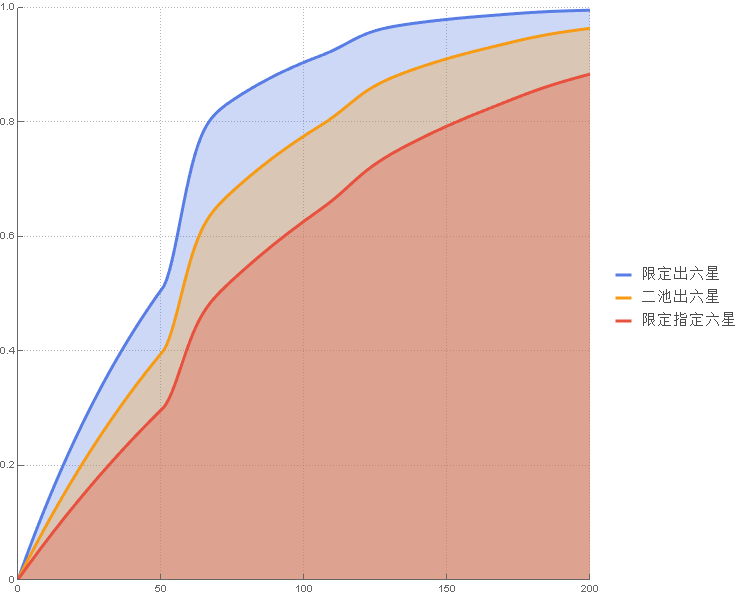
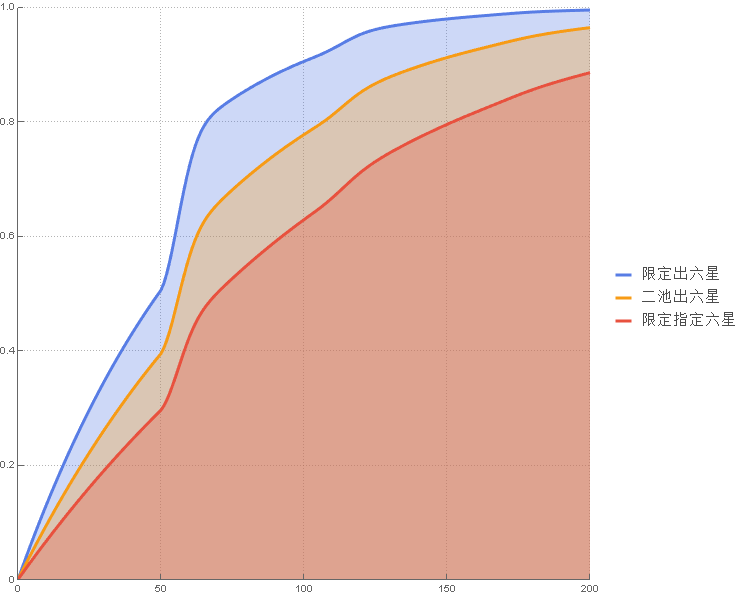
📑 update the data and images

diff --git a/doc/limited pool.m b/doc/limited pool.m
@@ -3,7 +3,7 @@
 SetDirectory@NotebookDirectory[];
 
 
-url = "https://github.com/GalAster/ArkKnightsCapsule/releases/download/v1.2.0/Distribution.mx";
+url = "https://github.com/GalAster/ArkKnightsCapsule/releases/download/v1.4.0/Distribution.mx";
 Dataset[data = N /@ Import[url]]
 
 
@@ -38,20 +38,20 @@ grand[names_, r_] := DiscretePlot[
 
 pdf = plot[{"\:9650\:5b9a\:51fa\:516d\:661f", "\:4e8c\:6c60\:51fa\:516d\:661f", "\:9650\:5b9a\:6307\:5b9a\:516d\:661f"}, 100]
 cdf = grand[{"\:9650\:5b9a\:51fa\:516d\:661f", "\:4e8c\:6c60\:51fa\:516d\:661f", "\:9650\:5b9a\:6307\:5b9a\:516d\:661f"}, 200]
-Export["limited pool/single_six_pdf.png", pdf, Background -> None];
-Export["limited pool/single_six_cdf.png", cdf, Background -> None];
+Export["limited_pool/single_six_pdf.png", pdf, Background -> None];
+Export["limited_pool/single_six_cdf.png", cdf, Background -> None];
 
 
 pdf = plot[{"\:4e8c\:6c60\:53cc\:516d\:661f", "\:9650\:5b9a\:53cc\:516d\:661f"}, 300]
 cdf = grand[{"\:4e8c\:6c60\:53cc\:516d\:661f", "\:9650\:5b9a\:53cc\:516d\:661f"}, 400]
-Export["limited pool/double_six_pdf.png", pdf, Background -> None];
-Export["limited pool/double_six_cdf.png", cdf, Background -> None];
+Export["limited_pool/double_six_pdf.png", pdf, Background -> None];
+Export["limited_pool/double_six_cdf.png", cdf, Background -> None];
 
 
 pdf = plot[{"\:4e8c\:6c60\:53cc\:6ee1\:6f5c", "\:9650\:5b9a\:53cc\:6ee1\:6f5c"}, 1200]
 cdf = grand[{"\:4e8c\:6c60\:53cc\:6ee1\:6f5c", "\:9650\:5b9a\:53cc\:6ee1\:6f5c"}, 1600]
-Export["limited pool/finish_six_pdf.png", pdf, Background -> None];
-Export["limited pool/finish_six_cdf.png", cdf, Background -> None];
+Export["limited_pool/finish_six_pdf.png", pdf, Background -> None];
+Export["limited_pool/finish_six_cdf.png", cdf, Background -> None];
 
 
 (* ::Section:: *)
@@ -63,27 +63,27 @@ lucky[key_] := {
 	formatNumber[Mean@data[key], 2],
 	Round@Quantile[data[key], 1 / 2],
 	formatNumber[StandardDeviation@data[key], 2],
-	Round@Quantile[data[key], 1 / 10],
-	Round@Quantile[data[key], 1 / 4],
-	Round@Quantile[data[key], 3 / 4],
-	Round@Quantile[data[key], 9 / 10],
+	Round@Quantile[data[key], 5 / 100],
+	Round@Quantile[data[key], 25 / 100],
+	Round@Quantile[data[key], 75 / 100],
+	Round@Quantile[data[key], 90 / 100],
 	Round@Quantile[data[key], 99 / 100]
 }
 
 
 StringJoin[{
-	"|\:4e8b\:4ef6|\:671f\:671b|\:4e2d\:4f4d\:6570|\:6807\:51c6\:5dee|\:6b27\:7687|\:6b27\:6d32\:4eba|\:975e\:6d32\:4eba|\:975e\:914b|\:88ab\:8bc5\:5492\:8005|\n",
+	"|\:4e8b\:4ef6|\:671f\:671b|\:4e2d\:4f4d\:6570|\:6807\:51c6\:5dee|\:6b27\:7687|\:6b27\:6d32\:4eba|\:975e\:6d32\:4eba|\:975e\:914b|\:88ab\:9057\:5fd8\:8005|\n",
 	"|:-|-:|-:|-:|-:|-:|-:|-:|-:|\n",
 	StringRiffle[lucky /@ Keys@data, "\n", "|"]
 }]
 
 
-v = Join[Range[1, 20], 10 * Range[3, 9], 100 * Range[1, 22]];
-try[key_] := Table[formatNumber[100Probability[x < i, x\[Distributed]data[key]]] <> "%", {i, v}]
+v = Join[Range[1, 20], 10 * Range[3, 9], 100 * Range[1, 20]];
+try[key_] := Table[formatNumber[100Probability[x < i, x\[Distributed]data[key]], 2] <> "%", {i, v}]
 
 
 StringJoin[{
-	StringRiffle[Prepend[Keys@data, "\:62bd\:5361\:6b21\:6570"], "|"] <> "\n",
+	StringRiffle[Prepend[Keys@data, "\:6b21\:6570"], "|"] <> "\n",
 	"|-:|-:|-:|-:|-:|-:|-:|-:|\n",
 	StringRiffle[Transpose@Prepend[try /@ Keys@data, v], "\n", "|"]
 }]
@@ -94,7 +94,7 @@ try[key_] := Table[formatNumber[100Probability[x < i, x\[Distributed]data[key]]]
 
 
 StringJoin[{
-	StringRiffle[Prepend[Keys@data, "\:62bd\:5361\:6b21\:6570"], "|"] <> "\n",
+	StringRiffle[Prepend[Keys@data, "\:6b21\:6570"], "|"] <> "\n",
 	"|-:|-:|-:|-:|-:|-:|-:|-:|\n",
 	StringRiffle[Transpose@Prepend[try /@ Keys@data, v], "\n", "|"]
 }]

diff --git a/doc/limited pool.md b/doc/limited pool.md
@@ -1,12 +1,12 @@
 | 事件         |   期望 | 中位数 | 标准差 | 欧皇 | 欧洲人 | 非洲人 | 非酋 | 被诅咒者 |
 | :----------- | -----: | -----: | -----: | ---: | -----: | -----: | ---: | -------: |
-| 二池出六星   |  69.81 |     58 |  57.82 |    6 |     29 |     93 |  144 |      273 |
-| 二池双六星   | 139.61 |    123 |  81.76 |   36 |     81 |    181 |  248 |      402 |
-| 二池双满潜   | 837.66 |    820 | 200.24 |  540 |    695 |    961 | 1102 |     1379 |
-| 限定出六星   |  49.86 |     50 |  37.32 |    4 |     21 |     63 |   99 |      176 |
-| 限定指定六星 |  99.71 |     71 |  88.07 |    8 |     41 |    133 |  214 |      414 |
-| 限定双六星   | 149.59 |    127 |  95.65 |   37 |     83 |    192 |  274 |      475 |
-| 限定双满潜   | 733.30 |    708 | 197.04 |  459 |    594 |    845 |  993 |     1311 |
+| 二池出六星   |  69.19 |     57 |  57.19 |    6 |     29 |     92 |  142 |      271 |
+| 二池双六星   | 138.38 |    122 |  80.88 |   36 |     80 |    179 |  245 |      398 |
+| 二池双满潜   | 829.85 |    813 | 197.12 |  536 |    690 |    952 | 1091 |     1358 |
+| 限定出六星   |  49.42 |     50 |  36.85 |    4 |     21 |     62 |   98 |      174 |
+| 限定指定六星 |  98.82 |     70 |  87.18 |    8 |     41 |    132 |  212 |      410 |
+| 限定双六星   | 148.27 |    126 |  94.67 |   37 |     82 |    190 |  271 |      470 |
+| 限定双满潜   | 726.62 |    702 | 194.33 |  456 |    589 |    837 |  984 |     1293 |
 
 - 欧皇: 超越了 95% 的玩家
 - 欧洲人: 超越了 75% 的玩家
@@ -20,80 +20,80 @@
 |  次数 | 二池出六星 | 二池双六星 | 二池双满潜 | 限定出六星 | 限定指定六星 | 限定双六星 | 限定双满潜 |
 | ----: | ---------: | ---------: | ---------: | ---------: | -----------: | ---------: | ---------: |
 |     1 |     0.000% |     0.000% |     0.000% |     0.000% |       0.000% |     0.000% |     0.000% |
-|     2 |     0.999% |     0.000% |     0.000% |     1.399% |       0.700% |     0.000% |     0.000% |
-|     3 |     1.988% |     0.010% |     0.000% |     2.778% |       1.394% |     0.010% |     0.000% |
-|     4 |     2.968% |     0.030% |     0.000% |     4.139% |       2.084% |     0.029% |     0.000% |
-|     5 |     3.938% |     0.059% |     0.000% |     5.480% |       2.770% |     0.058% |     0.000% |
-|     6 |     4.899% |     0.098% |     0.000% |     6.804% |       3.450% |     0.096% |     0.000% |
-|     7 |     5.848% |     0.146% |     0.000% |     8.108% |       4.125% |     0.143% |     0.000% |
-|     8 |     6.789% |     0.203% |     0.000% |     9.393% |       4.796% |     0.199% |     0.000% |
-|     9 |     7.720% |     0.269% |     0.000% |    10.662% |       5.464% |     0.264% |     0.000% |
-|    10 |     8.643% |     0.344% |     0.000% |    11.912% |       6.126% |     0.336% |     0.000% |
-|    11 |     9.556% |     0.427% |     0.000% |    13.145% |       6.784% |     0.417% |     0.000% |
-|    12 |    10.458% |     0.518% |     0.000% |    14.362% |       7.438% |     0.506% |     0.000% |
-|    13 |    11.355% |     0.617% |     0.000% |    15.562% |       8.085% |     0.603% |     0.000% |
-|    14 |    12.243% |     0.725% |     0.000% |    16.745% |       8.729% |     0.708% |     0.000% |
-|    15 |    13.119% |     0.840% |     0.000% |    17.909% |       9.368% |     0.819% |     0.000% |
-|    16 |    13.989% |     0.963% |     0.000% |    19.058% |      10.003% |     0.939% |     0.000% |
-|    17 |    14.850% |     1.094% |     0.000% |    20.191% |      10.633% |     1.066% |     0.000% |
-|    18 |    15.701% |     1.232% |     0.000% |    21.308% |      11.259% |     1.200% |     0.000% |
-|    19 |    16.544% |     1.376% |     0.000% |    22.409% |      11.880% |     1.341% |     0.000% |
-|    20 |    17.378% |     1.528% |     0.000% |    23.495% |      12.497% |     1.488% |     0.000% |
-|    21 |    18.203% |     1.687% |     0.000% |    24.567% |      13.110% |     1.642% |     0.000% |
-|    22 |    19.020% |     1.852% |     0.000% |    25.622% |      13.717% |     1.803% |     0.000% |
-|    23 |    19.829% |     2.024% |     0.000% |    26.662% |      14.321% |     1.970% |     0.000% |
-|    24 |    20.631% |     2.202% |     0.000% |    27.688% |      14.922% |     2.142% |     0.000% |
-|    25 |    21.426% |     2.386% |     0.000% |    28.701% |      15.516% |     2.322% |     0.000% |
-|    26 |    22.212% |     2.576% |     0.000% |    29.699% |      16.107% |     2.506% |     0.000% |
-|    27 |    22.992% |     2.772% |     0.000% |    30.683% |      16.695% |     2.697% |     0.000% |
-|    28 |    23.761% |     2.974% |     0.000% |    31.655% |      17.278% |     2.892% |     0.000% |
-|    29 |    24.523% |     3.182% |     0.000% |    32.613% |      17.857% |     3.094% |     0.000% |
-|    30 |    25.279% |     3.394% |     0.000% |    33.557% |      18.431% |     3.301% |     0.000% |
-|    31 |    26.026% |     3.613% |     0.000% |    34.488% |      19.001% |     3.513% |     0.000% |
-|    32 |    26.766% |     3.838% |     0.000% |    35.404% |      19.567% |     3.729% |     0.000% |
-|    33 |    27.498% |     4.067% |     0.000% |    36.309% |      20.130% |     3.950% |     0.000% |
-|    34 |    28.223% |     4.301% |     0.000% |    37.202% |      20.690% |     4.177% |     0.000% |
-|    35 |    28.941% |     4.539% |     0.000% |    38.081% |      21.247% |     4.409% |     0.000% |
-|    36 |    29.653% |     4.783% |     0.000% |    38.948% |      21.799% |     4.644% |     0.000% |
-|    37 |    30.356% |     5.033% |     0.000% |    39.801% |      22.347% |     4.883% |     0.000% |
-|    38 |    31.052% |     5.286% |     0.000% |    40.645% |      22.891% |     5.128% |     0.000% |
-|    39 |    31.741% |     5.544% |     0.000% |    41.477% |      23.431% |     5.376% |     0.000% |
-|    40 |    32.425% |     5.806% |     0.000% |    42.296% |      23.967% |     5.629% |     0.000% |
-|    41 |    33.100% |     6.073% |     0.000% |    43.103% |      24.498% |     5.886% |     0.000% |
-|    42 |    33.769% |     6.343% |     0.000% |    43.897% |      25.026% |     6.146% |     0.000% |
-|    43 |    34.430% |     6.618% |     0.000% |    44.683% |      25.552% |     6.411% |     0.000% |
-|    44 |    35.085% |     6.896% |     0.000% |    45.458% |      26.073% |     6.677% |     0.000% |
-|    45 |    35.733% |     7.177% |     0.000% |    46.221% |      26.590% |     6.948% |     0.000% |
-|    46 |    36.376% |     7.462% |     0.000% |    46.974% |      27.105% |     7.223% |     0.000% |
-|    47 |    37.013% |     7.751% |     0.000% |    47.716% |      27.616% |     7.502% |     0.000% |
-|    48 |    37.643% |     8.043% |     0.000% |    48.449% |      28.122% |     7.783% |     0.000% |
-|    49 |    38.265% |     8.340% |     0.000% |    49.171% |      28.624% |     8.068% |     0.000% |
-|    50 |    38.883% |     8.639% |     0.000% |    49.883% |      29.123% |     8.355% |     0.000% |
-|    60 |    53.427% |    12.274% |     0.000% |    68.385% |      40.125% |    11.851% |     0.000% |
-|    70 |    64.827% |    18.025% |     0.000% |    81.395% |      49.398% |    17.386% |     0.000% |
-|    80 |    69.630% |    24.143% |     0.000% |    85.077% |      54.169% |    23.249% |     0.000% |
-|    90 |    73.665% |    30.077% |     0.000% |    87.883% |      58.402% |    28.904% |     0.000% |
-|   100 |    77.204% |    35.782% |     0.000% |    90.209% |      62.268% |    34.308% |     0.000% |
-|   200 |    96.289% |    80.570% |     0.000% |    99.515% |      88.219% |    76.919% |     0.001% |
-|   300 |    99.373% |    95.254% |     0.015% |    99.973% |      96.258% |    92.541% |     0.097% |
-|   400 |    99.895% |    98.956% |     0.341% |    99.999% |      98.815% |    97.630% |     1.603% |
-|   500 |    99.982% |    99.783% |     2.664% |   100.000% |      99.624% |    99.249% |     9.164% |
-|   600 |    99.997% |    99.957% |    10.483% |   100.000% |      99.881% |    99.762% |    26.193% |
-|   700 |    99.999% |    99.992% |    25.748% |   100.000% |      99.962% |    99.925% |    48.190% |
-|   800 |   100.000% |    99.998% |    45.719% |   100.000% |      99.988% |    99.976% |    67.881% |
-|   900 |   100.000% |   100.000% |    65.116% |   100.000% |      99.996% |    99.993% |    81.833% |
-|  1000 |   100.000% |   100.000% |    80.098% |   100.000% |      99.999% |    99.998% |    90.395% |
-|  1100 |   100.000% |   100.000% |    89.791% |   100.000% |     100.000% |    99.999% |    95.168% |
-|  1200 |   100.000% |   100.000% |    95.229% |   100.000% |     100.000% |   100.000% |    97.661% |
-|  1300 |   100.000% |   100.000% |    97.942% |   100.000% |     100.000% |   100.000% |    98.903% |
-|  1400 |   100.000% |   100.000% |    99.173% |   100.000% |     100.000% |   100.000% |    99.500% |
-|  1500 |   100.000% |   100.000% |    99.687% |   100.000% |     100.000% |   100.000% |    99.778% |
-|  1600 |   100.000% |   100.000% |    99.888% |   100.000% |     100.000% |   100.000% |    99.903% |
-|  1700 |   100.000% |   100.000% |    99.962% |   100.000% |     100.000% |   100.000% |    99.959% |
-|  1800 |   100.000% |   100.000% |    99.988% |   100.000% |     100.000% |   100.000% |    99.983% |
-|  1900 |   100.000% |   100.000% |    99.996% |   100.000% |     100.000% |   100.000% |    99.993% |
-|  2000 |   100.000% |   100.000% |    99.999% |   100.000% |     100.000% |   100.000% |    99.997% |
-|  2100 |   100.000% |   100.000% |   100.000% |   100.000% |     100.000% |   100.000% |    99.999% |
+|     2 |     1.001% |     0.000% |     0.000% |     1.401% |       0.701% |     0.000% |     0.000% |
+|     3 |     1.992% |     0.010% |     0.000% |     2.781% |       1.396% |     0.010% |     0.000% |
+|     4 |     2.972% |     0.030% |     0.000% |     4.142% |       2.087% |     0.029% |     0.000% |
+|     5 |     3.943% |     0.059% |     0.000% |     5.484% |       2.773% |     0.058% |     0.000% |
+|     6 |     4.904% |     0.098% |     0.000% |     6.806% |       3.453% |     0.097% |     0.000% |
+|     7 |     5.854% |     0.146% |     0.000% |     8.112% |       4.129% |     0.143% |     0.000% |
+|     8 |     6.795% |     0.204% |     0.000% |     9.399% |       4.800% |     0.199% |     0.000% |
+|     9 |     7.726% |     0.269% |     0.000% |    10.667% |       5.465% |     0.264% |     0.000% |
+|    10 |     8.651% |     0.344% |     0.000% |    11.918% |       6.128% |     0.336% |     0.000% |
+|    11 |     9.565% |     0.427% |     0.000% |    13.152% |       6.785% |     0.417% |     0.000% |
+|    12 |    10.469% |     0.519% |     0.000% |    14.369% |       7.437% |     0.506% |     0.000% |
+|    13 |    11.364% |     0.618% |     0.000% |    15.567% |       8.086% |     0.603% |     0.000% |
+|    14 |    12.251% |     0.726% |     0.000% |    16.748% |       8.728% |     0.707% |     0.000% |
+|    15 |    13.127% |     0.841% |     0.000% |    17.914% |       9.365% |     0.820% |     0.000% |
+|    16 |    13.994% |     0.964% |     0.000% |    19.063% |      10.001% |     0.939% |     0.000% |
+|    17 |    14.856% |     1.095% |     0.000% |    20.198% |      10.631% |     1.065% |     0.000% |
+|    18 |    15.707% |     1.232% |     0.000% |    21.315% |      11.257% |     1.199% |     0.000% |
+|    19 |    16.549% |     1.376% |     0.000% |    22.417% |      11.878% |     1.339% |     0.000% |
+|    20 |    17.386% |     1.528% |     0.000% |    23.505% |      12.494% |     1.487% |     0.000% |
+|    21 |    18.211% |     1.687% |     0.000% |    24.576% |      13.106% |     1.641% |     0.000% |
+|    22 |    19.028% |     1.852% |     0.000% |    25.632% |      13.714% |     1.801% |     0.000% |
+|    23 |    19.837% |     2.024% |     0.000% |    26.672% |      14.318% |     1.969% |     0.000% |
+|    24 |    20.638% |     2.202% |     0.000% |    27.698% |      14.917% |     2.142% |     0.000% |
+|    25 |    21.433% |     2.387% |     0.000% |    28.711% |      15.513% |     2.320% |     0.000% |
+|    26 |    22.219% |     2.577% |     0.000% |    29.708% |      16.104% |     2.504% |     0.000% |
+|    27 |    22.997% |     2.774% |     0.000% |    30.693% |      16.691% |     2.695% |     0.000% |
+|    28 |    23.768% |     2.976% |     0.000% |    31.664% |      17.274% |     2.891% |     0.000% |
+|    29 |    24.530% |     3.185% |     0.000% |    32.622% |      17.854% |     3.092% |     0.000% |
+|    30 |    25.285% |     3.398% |     0.000% |    33.565% |      18.429% |     3.299% |     0.000% |
+|    31 |    26.034% |     3.617% |     0.000% |    34.495% |      19.002% |     3.511% |     0.000% |
+|    32 |    26.776% |     3.841% |     0.000% |    35.412% |      19.569% |     3.728% |     0.000% |
+|    33 |    27.509% |     4.070% |     0.000% |    36.316% |      20.131% |     3.950% |     0.000% |
+|    34 |    28.232% |     4.304% |     0.000% |    37.205% |      20.689% |     4.176% |     0.000% |
+|    35 |    28.949% |     4.543% |     0.000% |    38.082% |      21.244% |     4.407% |     0.000% |
+|    36 |    29.660% |     4.788% |     0.000% |    38.950% |      21.795% |     4.643% |     0.000% |
+|    37 |    30.363% |     5.037% |     0.000% |    39.806% |      22.343% |     4.882% |     0.000% |
+|    38 |    31.060% |     5.290% |     0.000% |    40.649% |      22.886% |     5.126% |     0.000% |
+|    39 |    31.749% |     5.548% |     0.000% |    41.481% |      23.425% |     5.375% |     0.000% |
+|    40 |    32.432% |     5.810% |     0.000% |    42.301% |      23.961% |     5.628% |     0.000% |
+|    41 |    33.108% |     6.076% |     0.000% |    43.109% |      24.493% |     5.884% |     0.000% |
+|    42 |    33.777% |     6.347% |     0.000% |    43.906% |      25.023% |     6.145% |     0.000% |
+|    43 |    34.440% |     6.621% |     0.000% |    44.692% |      25.549% |     6.409% |     0.000% |
+|    44 |    35.095% |     6.899% |     0.000% |    45.466% |      26.070% |     6.678% |     0.000% |
+|    45 |    35.745% |     7.180% |     0.000% |    46.230% |      26.588% |     6.949% |     0.000% |
+|    46 |    36.387% |     7.467% |     0.000% |    46.983% |      27.100% |     7.225% |     0.000% |
+|    47 |    37.023% |     7.757% |     0.000% |    47.726% |      27.610% |     7.503% |     0.000% |
+|    48 |    37.652% |     8.050% |     0.000% |    48.458% |      28.116% |     7.783% |     0.000% |
+|    49 |    38.276% |     8.346% |     0.000% |    49.180% |      28.619% |     8.068% |     0.000% |
+|    50 |    38.895% |     8.646% |     0.000% |    49.892% |      29.119% |     8.357% |     0.000% |
+|    60 |    54.889% |    12.464% |     0.000% |    70.323% |      41.182% |    12.030% |     0.000% |
+|    70 |    65.205% |    18.359% |     0.000% |    81.746% |      49.739% |    17.707% |     0.000% |
+|    80 |    69.907% |    24.506% |     0.000% |    85.284% |      54.454% |    23.591% |     0.000% |
+|    90 |    73.926% |    30.464% |     0.000% |    88.068% |      58.676% |    29.263% |     0.000% |
+|   100 |    77.455% |    36.176% |     0.000% |    90.376% |      62.540% |    34.684% |     0.000% |
+|   200 |    96.413% |    81.034% |     0.000% |    99.543% |      88.469% |    77.378% |     0.001% |
+|   300 |    99.406% |    95.461% |     0.016% |    99.976% |      96.382% |    92.782% |     0.102% |
+|   400 |    99.902% |    99.020% |     0.363% |    99.999% |      98.866% |    97.731% |     1.699% |
+|   500 |    99.984% |    99.799% |     2.834% |   100.000% |      99.645% |    99.289% |     9.657% |
+|   600 |    99.997% |    99.961% |    11.054% |   100.000% |      99.889% |    99.777% |    27.267% |
+|   700 |   100.000% |    99.992% |    26.859% |   100.000% |      99.965% |    99.930% |    49.553% |
+|   800 |   100.000% |    99.999% |    47.172% |   100.000% |      99.989% |    99.978% |    69.107% |
+|   900 |   100.000% |   100.000% |    66.529% |   100.000% |      99.997% |    99.993% |    82.740% |
+|  1000 |   100.000% |   100.000% |    81.215% |   100.000% |      99.999% |    99.998% |    90.974% |
+|  1100 |   100.000% |   100.000% |    90.594% |   100.000% |     100.000% |    99.999% |    95.539% |
+|  1200 |   100.000% |   100.000% |    95.790% |   100.000% |     100.000% |   100.000% |    97.914% |
+|  1300 |   100.000% |   100.000% |    98.253% |   100.000% |     100.000% |   100.000% |    99.050% |
+|  1400 |   100.000% |   100.000% |    99.326% |   100.000% |     100.000% |   100.000% |    99.579% |
+|  1500 |   100.000% |   100.000% |    99.759% |   100.000% |     100.000% |   100.000% |    99.820% |
+|  1600 |   100.000% |   100.000% |    99.917% |   100.000% |     100.000% |   100.000% |    99.924% |
+|  1700 |   100.000% |   100.000% |    99.973% |   100.000% |     100.000% |   100.000% |    99.969% |
+|  1800 |   100.000% |   100.000% |    99.992% |   100.000% |     100.000% |   100.000% |    99.987% |
+|  1900 |   100.000% |   100.000% |    99.998% |   100.000% |     100.000% |   100.000% |    99.995% |
+|  2000 |   100.000% |   100.000% |    99.999% |   100.000% |     100.000% |   100.000% |    99.998% |
+|  2100 |   100.000% |   100.000% |   100.000% |   100.000% |     100.000% |   100.000% |   100.000% |
 |  2200 |   100.000% |   100.000% |   100.000% |   100.000% |     100.000% |   100.000% |   100.000% |
 |  2300 |   100.000% |   100.000% |   100.000% |   100.000% |     100.000% |   100.000% |   100.000% |
 |  2400 |   100.000% |   100.000% |   100.000% |   100.000% |     100.000% |   100.000% |   100.000% |
@@ -143,4 +143,3 @@
 ![](./limited_pool/finish_six_pdf.png)
 
 ![](./limited_pool/finish_six_cdf.png)
-

diff --git a/Readme.md b/Readme.md
@@ -4,72 +4,74 @@
 
 **注**: 六星指 up 的六星不是歪了的六星, 限定 = 地生五金限定池, 二池 = 两个普通 up 池
 
-| 事件         |   期望 | 中位数 | 标准差 | 欧皇 | 欧洲人 | 非洲人 | 非酋 | 被诅咒者 |
+| 事件         |   期望 | 中位数 | 标准差 | 欧皇 | 欧洲人 | 非洲人 | 非酋 | 被遗忘者 |
 | :----------- | -----: | -----: | -----: | ---: | -----: | -----: | ---: | -------: |
-| 二池出六星   |  69.81 |     58 |  57.82 |    6 |     29 |     93 |  144 |      273 |
-| 二池双六星   | 139.61 |    123 |  81.76 |   36 |     81 |    181 |  248 |      402 |
-| 二池双满潜   | 837.66 |    820 | 200.24 |  540 |    695 |    961 | 1102 |     1379 |
-| 限定出六星   |  49.86 |     50 |  37.32 |    4 |     21 |     63 |   99 |      176 |
-| 限定指定六星 |  99.71 |     71 |  88.07 |    8 |     41 |    133 |  214 |      414 |
-| 限定双六星   | 149.59 |    127 |  95.65 |   37 |     83 |    192 |  274 |      475 |
-| 限定双满潜   | 733.30 |    708 | 197.04 |  459 |    594 |    845 |  993 |     1311 |
+| 二池出六星   |  69.19 |     57 |  57.19 |    6 |     29 |     92 |  142 |      271 |
+| 二池双六星   | 138.38 |    122 |  80.88 |   36 |     80 |    179 |  245 |      398 |
+| 二池双满潜   | 829.85 |    813 | 197.12 |  536 |    690 |    952 | 1091 |     1358 |
+| 限定出六星   |  49.42 |     50 |  36.85 |    4 |     21 |     62 |   98 |      174 |
+| 限定指定六星 |  98.82 |     70 |  87.18 |    8 |     41 |    132 |  212 |      410 |
+| 限定双六星   | 148.27 |    126 |  94.67 |   37 |     82 |    190 |  271 |      470 |
+| 限定双满潜   | 726.62 |    702 | 194.33 |  456 |    589 |    837 |  984 |     1293 |
 
 - 欧皇: 超越了 95% 的玩家
 - 欧洲人: 超越了 75% 的玩家
 - 非洲人: 超越了 25% 的玩家
 - 非酋: 超越了 10% 的玩家
-- 被诅咒者: 超越了 1% 的玩家
+- 被遗忘者: 超越了 1% 的玩家
 
 ### 实际抽卡对照表
 
-**没有什么老婆是 1000 抽追不到的, 如果有, 再来 1000 抽**
+**注1:** 根据精算, 每抽对应的人民币价值约为 7.5 元
+
+**注2:** 没有什么老婆是 1000 抽追不到的, 如果有, 那就再来 1000 抽
 
 | 次数 | 二池出六星 | 二池双六星 | 二池双满潜 | 限定出六星 | 限定指定六星 | 限定双六星 | 限定双满潜 |
 | ---: | ---------: | ---------: | ---------: | ---------: | -----------: | ---------: | ---------: |
 |    1 |      0.00% |      0.00% |      0.00% |      0.00% |        0.00% |      0.00% |      0.00% |
 |    2 |      1.00% |      0.00% |      0.00% |      1.40% |        0.70% |      0.00% |      0.00% |
-|    3 |      1.99% |      0.01% |      0.00% |      2.78% |        1.39% |      0.01% |      0.00% |
-|    4 |      2.97% |      0.03% |      0.00% |      4.14% |        2.08% |      0.03% |      0.00% |
+|    3 |      1.99% |      0.01% |      0.00% |      2.78% |        1.40% |      0.01% |      0.00% |
+|    4 |      2.97% |      0.03% |      0.00% |      4.14% |        2.09% |      0.03% |      0.00% |
 |    5 |      3.94% |      0.06% |      0.00% |      5.48% |        2.77% |      0.06% |      0.00% |
-|    6 |      4.90% |      0.10% |      0.00% |      6.80% |        3.45% |      0.10% |      0.00% |
+|    6 |      4.90% |      0.10% |      0.00% |      6.81% |        3.45% |      0.10% |      0.00% |
 |    7 |      5.85% |      0.15% |      0.00% |      8.11% |        4.13% |      0.14% |      0.00% |
-|    8 |      6.79% |      0.20% |      0.00% |      9.39% |        4.80% |      0.20% |      0.00% |
-|    9 |      7.72% |      0.27% |      0.00% |     10.66% |        5.46% |      0.26% |      0.00% |
-|   10 |      8.64% |      0.34% |      0.00% |     11.91% |        6.13% |      0.34% |      0.00% |
-|   11 |      9.56% |      0.43% |      0.00% |     13.14% |        6.78% |      0.42% |      0.00% |
-|   12 |     10.46% |      0.52% |      0.00% |     14.36% |        7.44% |      0.51% |      0.00% |
-|   13 |     11.36% |      0.62% |      0.00% |     15.56% |        8.09% |      0.60% |      0.00% |
-|   14 |     12.24% |      0.73% |      0.00% |     16.74% |        8.73% |      0.71% |      0.00% |
-|   15 |     13.12% |      0.84% |      0.00% |     17.91% |        9.37% |      0.82% |      0.00% |
+|    8 |      6.80% |      0.20% |      0.00% |      9.40% |        4.80% |      0.20% |      0.00% |
+|    9 |      7.73% |      0.27% |      0.00% |     10.67% |        5.47% |      0.26% |      0.00% |
+|   10 |      8.65% |      0.34% |      0.00% |     11.92% |        6.13% |      0.34% |      0.00% |
+|   11 |      9.56% |      0.43% |      0.00% |     13.15% |        6.79% |      0.42% |      0.00% |
+|   12 |     10.47% |      0.52% |      0.00% |     14.37% |        7.44% |      0.51% |      0.00% |
+|   13 |     11.36% |      0.62% |      0.00% |     15.57% |        8.09% |      0.60% |      0.00% |
+|   14 |     12.25% |      0.73% |      0.00% |     16.75% |        8.73% |      0.71% |      0.00% |
+|   15 |     13.13% |      0.84% |      0.00% |     17.91% |        9.37% |      0.82% |      0.00% |
 |   16 |     13.99% |      0.96% |      0.00% |     19.06% |       10.00% |      0.94% |      0.00% |
-|   17 |     14.85% |      1.09% |      0.00% |     20.19% |       10.63% |      1.07% |      0.00% |
-|   18 |     15.70% |      1.23% |      0.00% |     21.31% |       11.26% |      1.20% |      0.00% |
-|   19 |     16.54% |      1.38% |      0.00% |     22.41% |       11.88% |      1.34% |      0.00% |
-|   20 |     17.38% |      1.53% |      0.00% |     23.50% |       12.50% |      1.49% |      0.00% |
-|   30 |     25.28% |      3.39% |      0.00% |     33.56% |       18.43% |      3.30% |      0.00% |
-|   40 |     32.42% |      5.81% |      0.00% |     42.30% |       23.97% |      5.63% |      0.00% |
-|   50 |     38.88% |      8.64% |      0.00% |     49.88% |       29.12% |      8.36% |      0.00% |
-|   60 |     53.43% |     12.27% |      0.00% |     68.38% |       40.12% |     11.85% |      0.00% |
-|   70 |     64.83% |     18.02% |      0.00% |     81.39% |       49.40% |     17.39% |      0.00% |
-|   80 |     69.63% |     24.14% |      0.00% |     85.08% |       54.17% |     23.25% |      0.00% |
-|   90 |     73.67% |     30.08% |      0.00% |     87.88% |       58.40% |     28.90% |      0.00% |
-|  100 |     77.20% |     35.78% |      0.00% |     90.21% |       62.27% |     34.31% |      0.00% |
-|  200 |     96.29% |     80.57% |      0.00% |     99.51% |       88.22% |     76.92% |      0.00% |
-|  300 |     99.37% |     95.25% |      0.02% |     99.97% |       96.26% |     92.54% |      0.10% |
-|  400 |     99.89% |     98.96% |      0.34% |    100.00% |       98.82% |     97.63% |      1.60% |
-|  500 |     99.98% |     99.78% |      2.66% |    100.00% |       99.62% |     99.25% |      9.16% |
-|  600 |    100.00% |     99.96% |     10.48% |    100.00% |       99.88% |     99.76% |     26.19% |
-|  700 |    100.00% |     99.99% |     25.75% |    100.00% |       99.96% |     99.92% |     48.19% |
-|  800 |    100.00% |    100.00% |     45.72% |    100.00% |       99.99% |     99.98% |     67.88% |
-|  900 |    100.00% |    100.00% |     65.12% |    100.00% |      100.00% |     99.99% |     81.83% |
-| 1000 |    100.00% |    100.00% |     80.10% |    100.00% |      100.00% |    100.00% |     90.39% |
-| 1100 |    100.00% |    100.00% |     89.79% |    100.00% |      100.00% |    100.00% |     95.17% |
-| 1200 |    100.00% |    100.00% |     95.23% |    100.00% |      100.00% |    100.00% |     97.66% |
-| 1300 |    100.00% |    100.00% |     97.94% |    100.00% |      100.00% |    100.00% |     98.90% |
-| 1400 |    100.00% |    100.00% |     99.17% |    100.00% |      100.00% |    100.00% |     99.50% |
-| 1500 |    100.00% |    100.00% |     99.69% |    100.00% |      100.00% |    100.00% |     99.78% |
-| 1600 |    100.00% |    100.00% |     99.89% |    100.00% |      100.00% |    100.00% |     99.90% |
-| 1700 |    100.00% |    100.00% |     99.96% |    100.00% |      100.00% |    100.00% |     99.96% |
-| 1800 |    100.00% |    100.00% |     99.99% |    100.00% |      100.00% |    100.00% |     99.98% |
+|   17 |     14.86% |      1.09% |      0.00% |     20.20% |       10.63% |      1.07% |      0.00% |
+|   18 |     15.71% |      1.23% |      0.00% |     21.31% |       11.26% |      1.20% |      0.00% |
+|   19 |     16.55% |      1.38% |      0.00% |     22.42% |       11.88% |      1.34% |      0.00% |
+|   20 |     17.39% |      1.53% |      0.00% |     23.50% |       12.49% |      1.49% |      0.00% |
+|   30 |     25.29% |      3.40% |      0.00% |     33.56% |       18.43% |      3.30% |      0.00% |
+|   40 |     32.43% |      5.81% |      0.00% |     42.30% |       23.96% |      5.63% |      0.00% |
+|   50 |     38.89% |      8.65% |      0.00% |     49.89% |       29.12% |      8.36% |      0.00% |
+|   60 |     54.89% |     12.46% |      0.00% |     70.32% |       41.18% |     12.03% |      0.00% |
+|   70 |     65.21% |     18.36% |      0.00% |     81.75% |       49.74% |     17.71% |      0.00% |
+|   80 |     69.91% |     24.51% |      0.00% |     85.28% |       54.45% |     23.59% |      0.00% |
+|   90 |     73.93% |     30.46% |      0.00% |     88.07% |       58.68% |     29.26% |      0.00% |
+|  100 |     77.46% |     36.18% |      0.00% |     90.38% |       62.54% |     34.68% |      0.00% |
+|  200 |     96.41% |     81.03% |      0.00% |     99.54% |       88.47% |     77.38% |      0.00% |
+|  300 |     99.41% |     95.46% |      0.02% |     99.98% |       96.38% |     92.78% |      0.10% |
+|  400 |     99.90% |     99.02% |      0.36% |    100.00% |       98.87% |     97.73% |      1.70% |
+|  500 |     99.98% |     99.80% |      2.83% |    100.00% |       99.64% |     99.29% |      9.66% |
+|  600 |    100.00% |     99.96% |     11.05% |    100.00% |       99.89% |     99.78% |     27.27% |
+|  700 |    100.00% |     99.99% |     26.86% |    100.00% |       99.97% |     99.93% |     49.55% |
+|  800 |    100.00% |    100.00% |     47.17% |    100.00% |       99.99% |     99.98% |     69.11% |
+|  900 |    100.00% |    100.00% |     66.53% |    100.00% |      100.00% |     99.99% |     82.74% |
+| 1000 |    100.00% |    100.00% |     81.21% |    100.00% |      100.00% |    100.00% |     90.97% |
+| 1100 |    100.00% |    100.00% |     90.59% |    100.00% |      100.00% |    100.00% |     95.54% |
+| 1200 |    100.00% |    100.00% |     95.79% |    100.00% |      100.00% |    100.00% |     97.91% |
+| 1300 |    100.00% |    100.00% |     98.25% |    100.00% |      100.00% |    100.00% |     99.05% |
+| 1400 |    100.00% |    100.00% |     99.33% |    100.00% |      100.00% |    100.00% |     99.58% |
+| 1500 |    100.00% |    100.00% |     99.76% |    100.00% |      100.00% |    100.00% |     99.82% |
+| 1600 |    100.00% |    100.00% |     99.92% |    100.00% |      100.00% |    100.00% |     99.92% |
+| 1700 |    100.00% |    100.00% |     99.97% |    100.00% |      100.00% |    100.00% |     99.97% |
+| 1800 |    100.00% |    100.00% |     99.99% |    100.00% |      100.00% |    100.00% |     99.99% |
 | 1900 |    100.00% |    100.00% |    100.00% |    100.00% |      100.00% |    100.00% |     99.99% |
 | 2000 |    100.00% |    100.00% |    100.00% |    100.00% |      100.00% |    100.00% |    100.00% |
